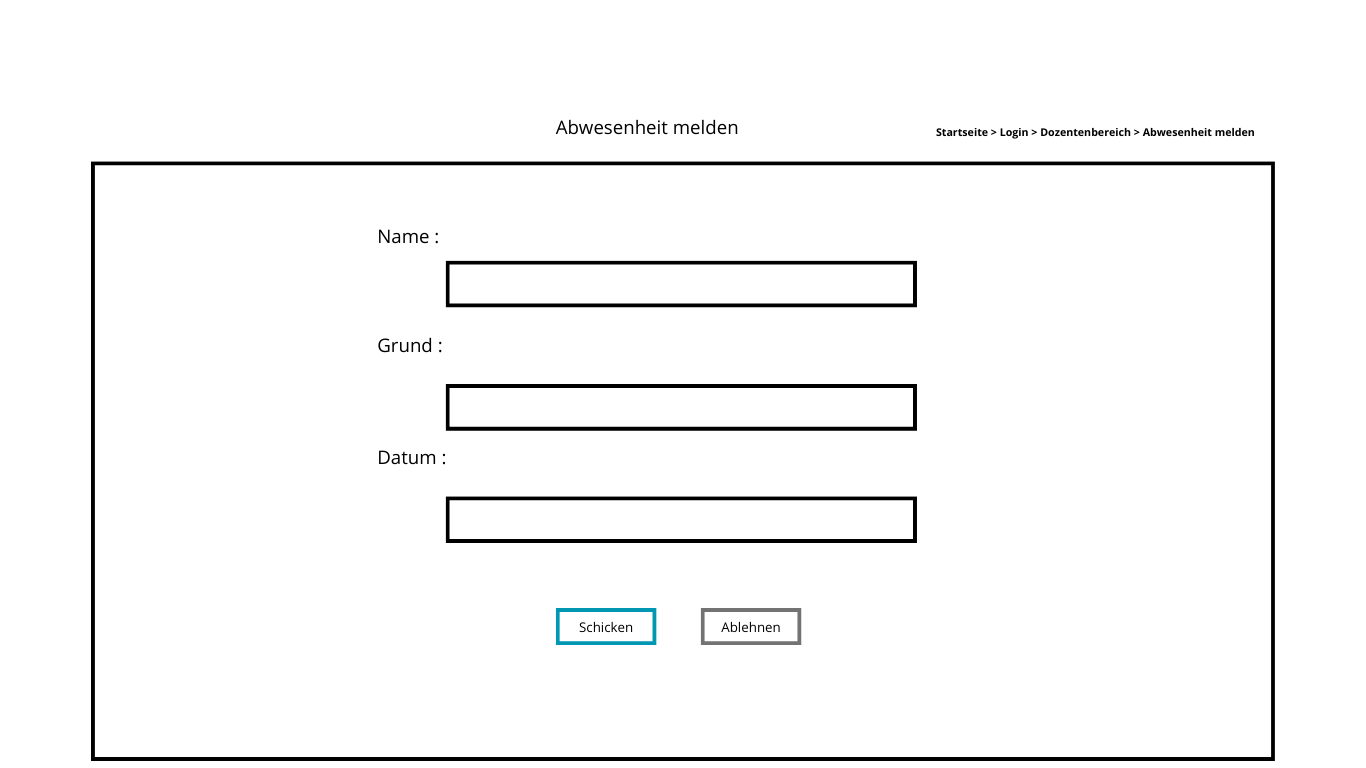
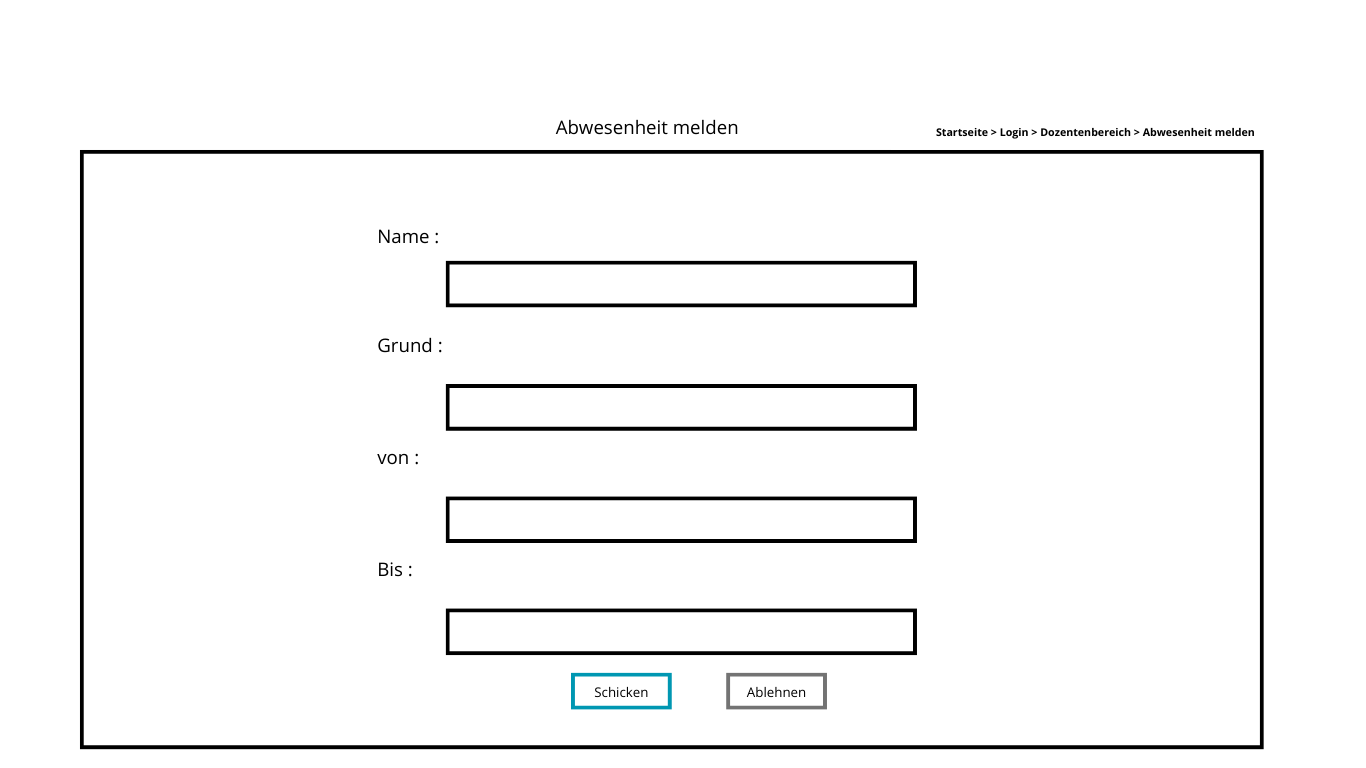
Meinung des Lehrers wurde hinzugefügt

diff --git a/Anforderungen/Anforderungen.md b/Anforderungen/Anforderungen.md
@@ -1,4 +1,4 @@
-# Einsatzplan
+# Einsatzplan für die Firma "Wissen für Alle - die Wissensakademie"
 
 # Inhaltsverzeichnis
 
@@ -30,14 +30,19 @@ In diesem Projekt geht es um die Entwicklung einer Software Lösung, die Stunden
 
 ## 1.2 Rahmenbedingungen
 
-Vorher wurde die Plannung manuell gemacht, aber da das Geschäft sich stark entwickelt hat. Braucht die Administration eine bessere Art und Weise, die Plannug von Kurse :
+Vorher wurde die Mitarbeiter Einsatztplannung manuell gemacht, aber da das Geschäft sich stark entwickelt hat. Braucht die Administration eine bessere Art und Weise, die Plannug von Kurse :
  - zu erstellen, 
  - zu modifizieren 
  - und an Studierende und Dozenten von verschiedene Standorten zu teilen.
+ es gibt Ü, V, dauern 2 Stunden
+
+ Was ist das Problem
+ Wie löse ich das Problem
+ Achten auf Grammatik
 
 # 2. Anforderungen
 
-## 2.1. Allgemeine Anforderungen
+## 2.1. Allgemeine Anforderungen(gehören zu Rahmenbedingungen)
 
 - Dozenten dürfen maximal 16 Stunden pro Woche eingesetzt sein. 
 - Studenten müssen nachschauen ob eine Vorlesung stattfindet oder nicht
@@ -81,7 +86,9 @@ Diese Qualitäten musst das System erfüllen :
  - System soll verfügbar sein außer bei Updates
 
 # 3. Use Case 
-
+- Für jeder Use Case Beschreibung fällt
+- Voraussetzungen
+- Person kann das.(statich)
 ## 3.1 Use Case Diagramm
 
   Für einen Studierende
@@ -100,7 +107,8 @@ Diese Qualitäten musst das System erfüllen :
     
 
 # 4. Architektur
-
+Welche Entscheidungen haben wir uns für die realisiereung des Lösung des System
+Architektur(ein bild reicht)
 Wir entscheiden uns für eine Web-App, da man auf alle Geräte und von überall zugreifen kann.
 Die App wird diese Technologien benutzen:
   - Backend: Mit Python, weil es einfach zu lernen ist, HTTP Anfragen gut unterstüzt, was sehr wichtig für eine Web-App ist, und es gibt. große Entwickler Community.
@@ -108,7 +116,7 @@ Die App wird diese Technologien benutzen:
   - Datenbank: Mit MySQL, strukturiert, gut für das Suchen, große Entwickler Community
 
 # 5. Geschäftprozesse
-  
+  - Sequenzdiagramm
 - Beschreibung Laufzeit des Systems
     
    5.1. _use case Generierung eines Einsatzplan_
@@ -122,13 +130,16 @@ Die App wird diese Technologien benutzen:
         Ein Admin listet alle Abwesenheiten und hat die Möglichkeit zu akzeptieren oder abzulehnen.
         Eine Annahme löst eine neue generierung des Einsatzplan und das Schicken eine Mail an alle Dozenten und Studierende.
 
-   5.3. _use case Abwesenheitmeldungen eisehen_
+   5.3. _use case Abwesenheitmeldungen einsehen_
         
         Nach dem Login kann ein Admin alle Meldungen sehen, sie bestätigen oder ablehnen.
+
+   5.4 _use case was eine Krankmeldung auslöst_
 
 # 6. Datenmodell
 
 Es wird eine My-sql Datenbank verwendet
+Orte hinzufügen
 ![](Datenbank.png)
 
 # 7. GUI-Design
@@ -143,6 +154,7 @@ Es wird eine My-sql Datenbank verwendet
   ![](4.png)
 
   Für einen Dozent
+  Abwesendheitsgrund für den Formular
   ![](5.png)
   ![](6.png)
   ![](7.png)
@@ -151,3 +163,5 @@ Es wird eine My-sql Datenbank verwendet
   ![](8.png)
   ![](9.png)
   ![](10.png)
+
+  Aufwandschätzung
